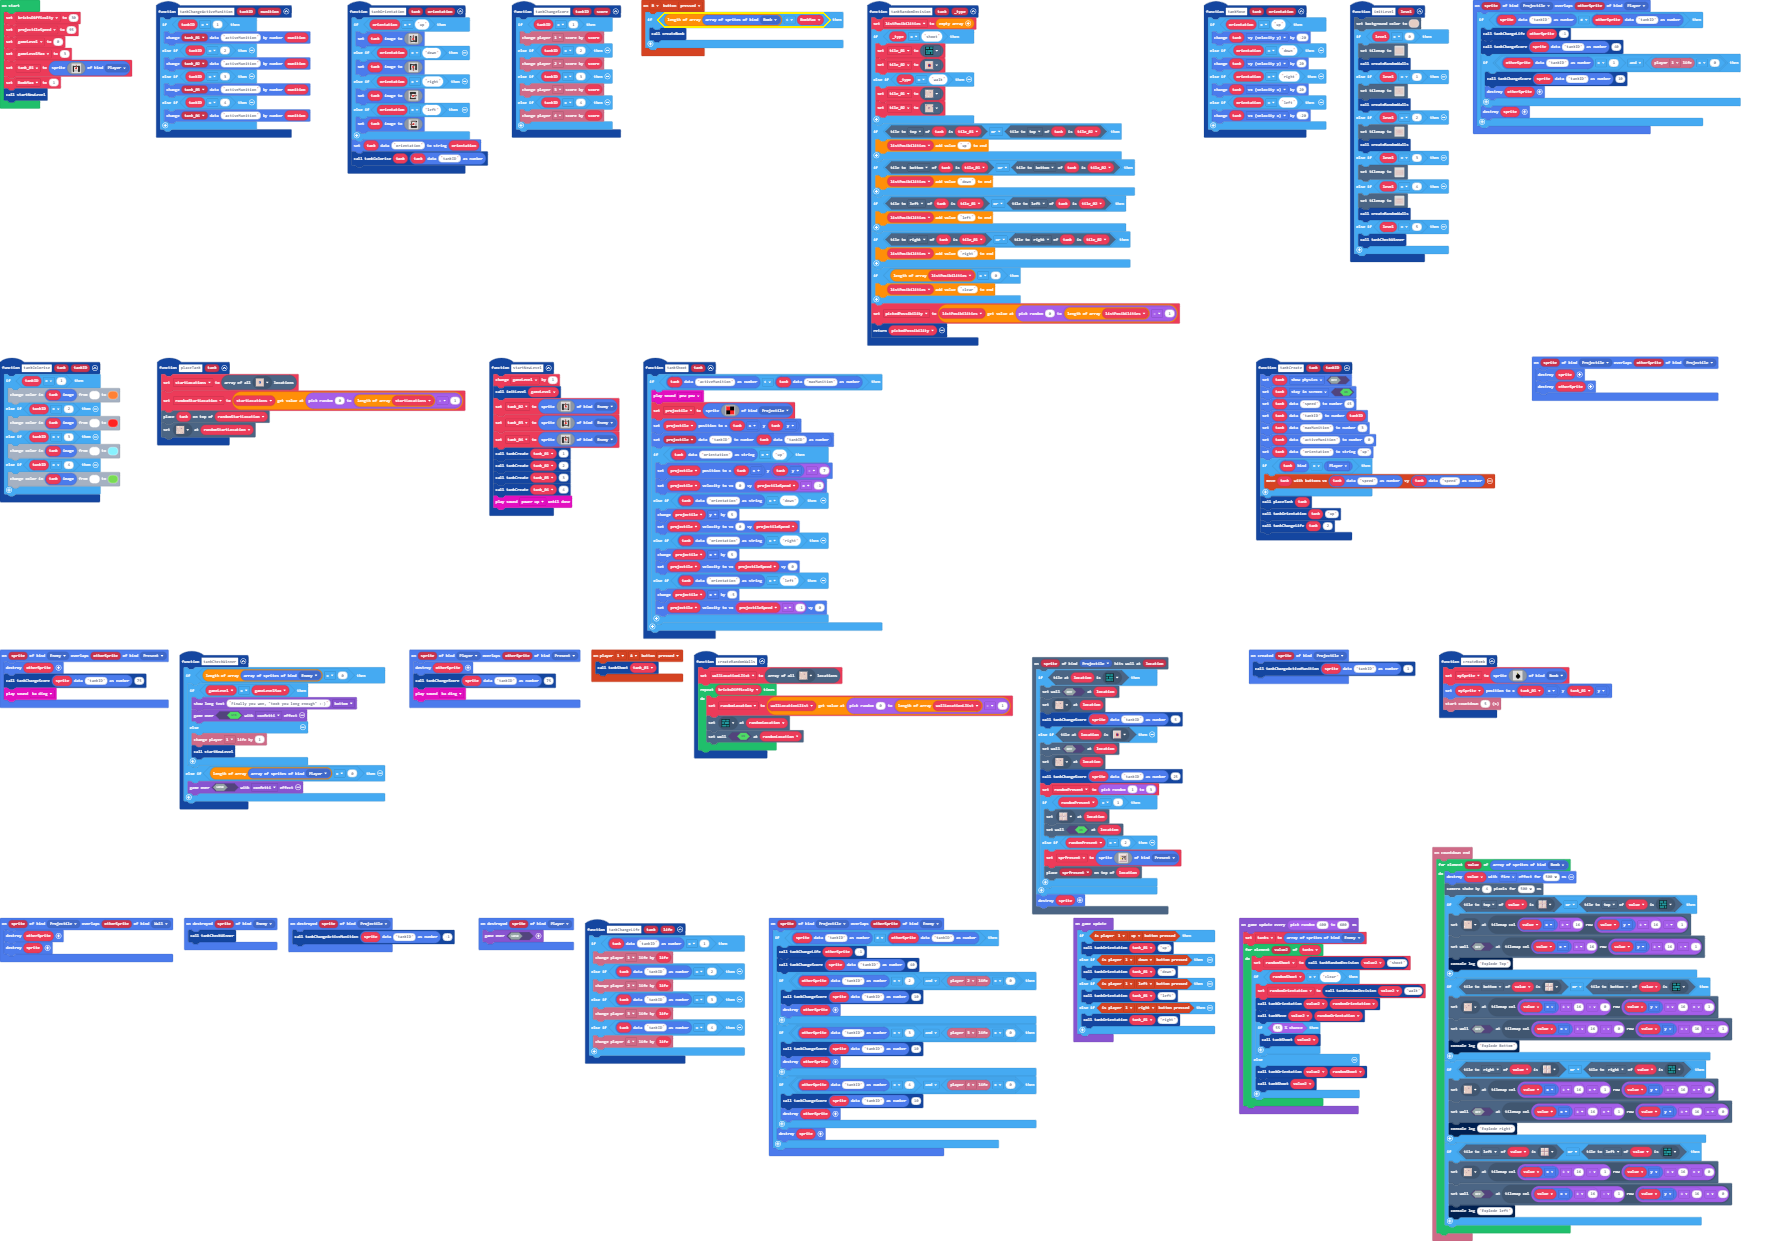
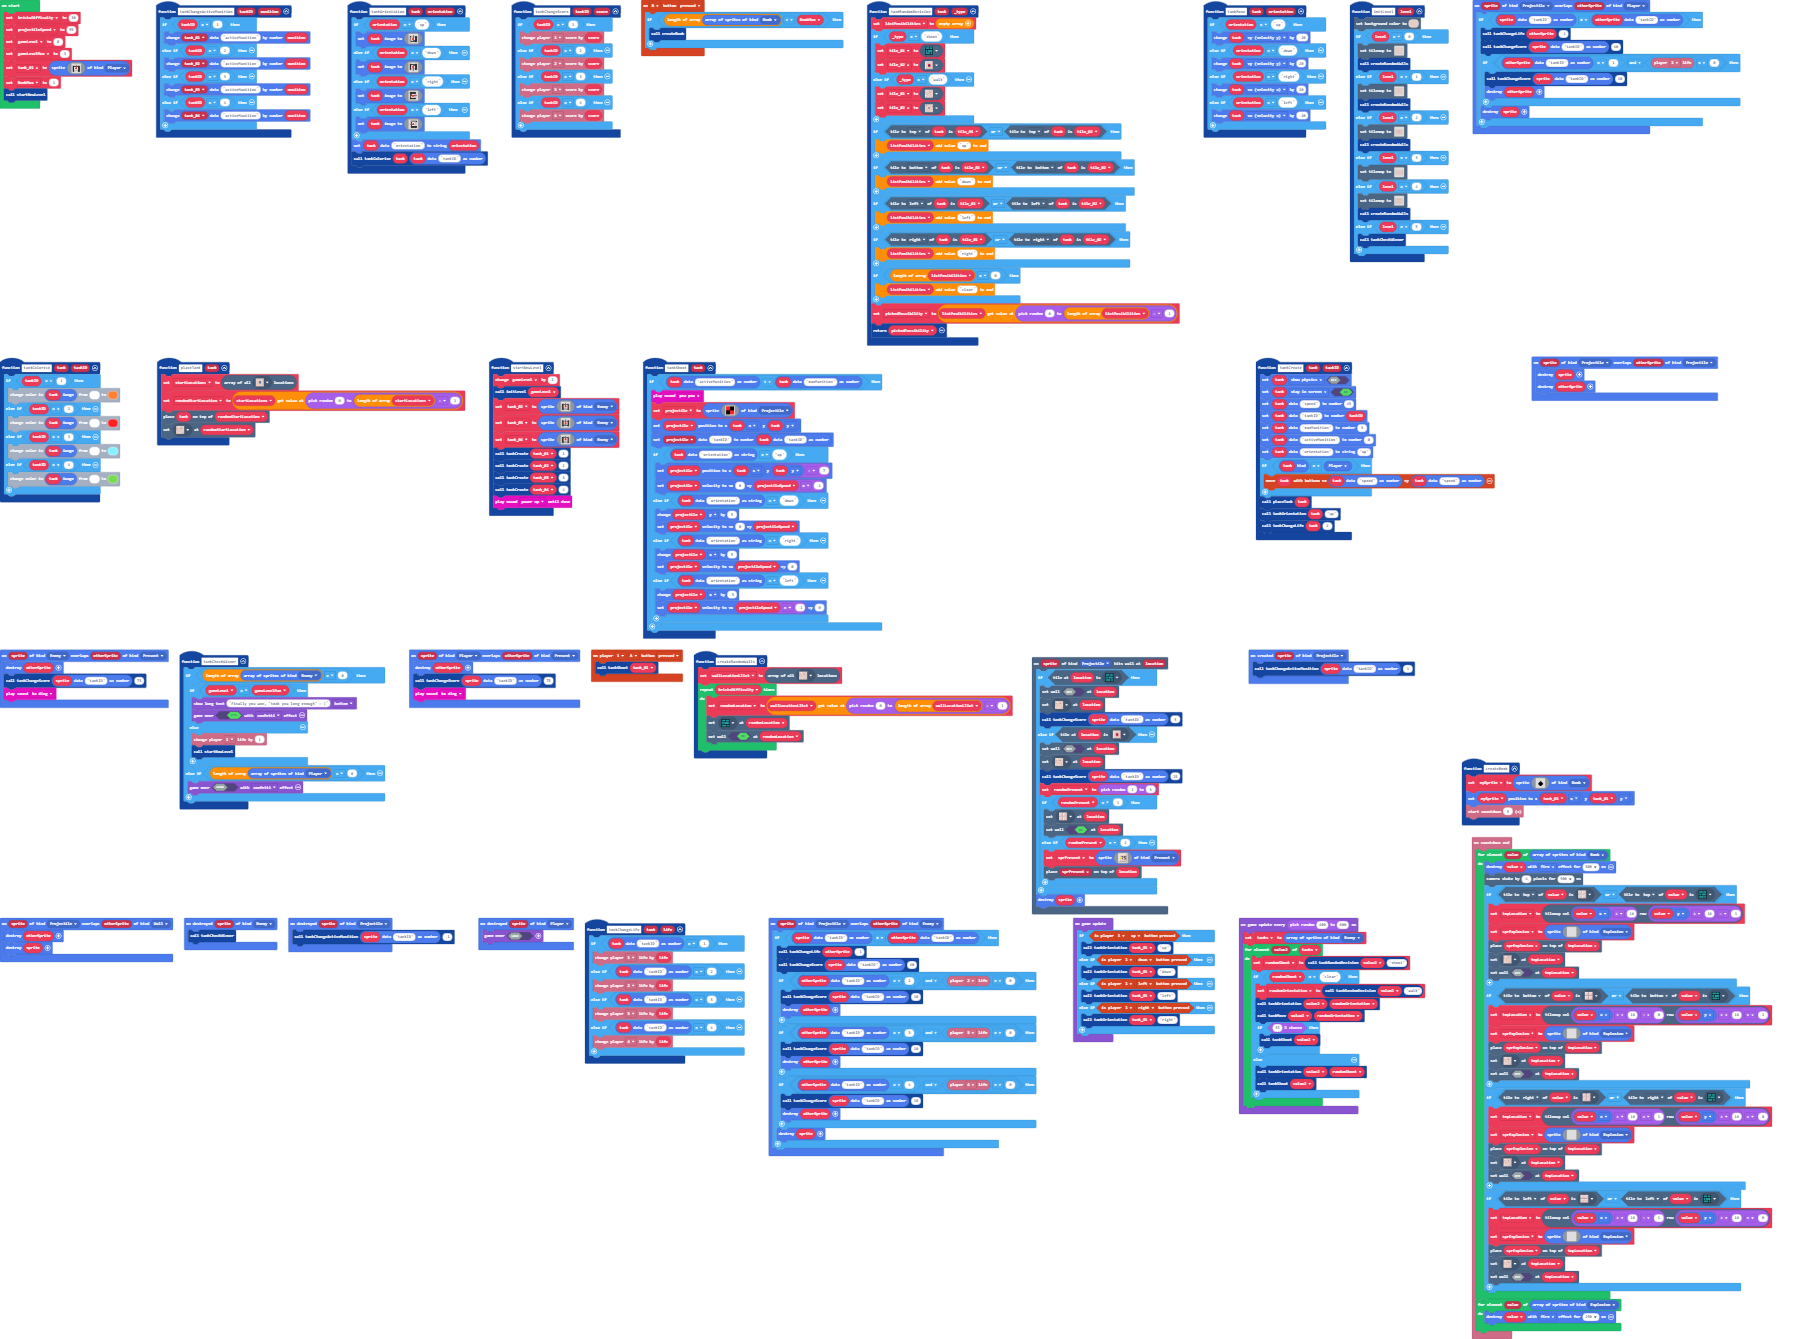
We Made brick destroy animation and continued the development of the bomb

diff --git a/main.ts b/main.ts
@@ -2,6 +2,7 @@ namespace SpriteKind {
     export const Wall = SpriteKind.create()
     export const Present = SpriteKind.create()
     export const Bomb = SpriteKind.create()
+    export const Explosion = SpriteKind.create()
 }
 function tankChangeActiveMunition (tankID: number, munition: number) {
     if (tankID == 1) {
@@ -334,25 +335,104 @@ info.onCountdownEnd(function () {
         value.destroy(effects.fire, 500)
         scene.cameraShake(4, 500)
         if (value.tileKindAt(TileDirection.Top, sprites.dungeon.floorLight0) || value.tileKindAt(TileDirection.Top, myTiles.tile1)) {
-            tiles.setTileAt(tiles.getTileLocation(value.x / 16, value.y / 16 - 1), sprites.castle.tilePath5)
-            tiles.setWallAt(tiles.getTileLocation(value.x / 16, value.y / 16 - 1), false)
-            console.log("Explode Top")
+            tmpLocation = tiles.getTileLocation(value.x / 16, value.y / 16 - 1)
+            sprExplosion = sprites.create(img`
+                . . . . . . . . . . . . . . . . 
+                . . . . . . . . . . . . . . . . 
+                . . . . . . . . . . . . . . . . 
+                . . . . . . . . . . . . . . . . 
+                . . . . . . . . . . . . . . . . 
+                . . . . . . . . . . . . . . . . 
+                . . . . . . . . . . . . . . . . 
+                . . . . . . . . . . . . . . . . 
+                . . . . . . . . . . . . . . . . 
+                . . . . . . . . . . . . . . . . 
+                . . . . . . . . . . . . . . . . 
+                . . . . . . . . . . . . . . . . 
+                . . . . . . . . . . . . . . . . 
+                . . . . . . . . . . . . . . . . 
+                . . . . . . . . . . . . . . . . 
+                . . . . . . . . . . . . . . . . 
+                `, SpriteKind.Explosion)
+            tiles.placeOnTile(sprExplosion, tmpLocation)
+            tiles.setTileAt(tmpLocation, sprites.castle.tilePath5)
+            tiles.setWallAt(tmpLocation, false)
         }
         if (value.tileKindAt(TileDirection.Bottom, sprites.dungeon.floorLight0) || value.tileKindAt(TileDirection.Bottom, myTiles.tile1)) {
-            tiles.setTileAt(tiles.getTileLocation(value.x / 16 - 0, value.y / 16 + 1), sprites.castle.tilePath5)
-            tiles.setWallAt(tiles.getTileLocation(value.x / 16 - 0, value.y / 16 + 1), false)
-            console.log("Explode Bottom")
+            tmpLocation = tiles.getTileLocation(value.x / 16 - 0, value.y / 16 + 1)
+            sprExplosion = sprites.create(img`
+                . . . . . . . . . . . . . . . . 
+                . . . . . . . . . . . . . . . . 
+                . . . . . . . . . . . . . . . . 
+                . . . . . . . . . . . . . . . . 
+                . . . . . . . . . . . . . . . . 
+                . . . . . . . . . . . . . . . . 
+                . . . . . . . . . . . . . . . . 
+                . . . . . . . . . . . . . . . . 
+                . . . . . . . . . . . . . . . . 
+                . . . . . . . . . . . . . . . . 
+                . . . . . . . . . . . . . . . . 
+                . . . . . . . . . . . . . . . . 
+                . . . . . . . . . . . . . . . . 
+                . . . . . . . . . . . . . . . . 
+                . . . . . . . . . . . . . . . . 
+                . . . . . . . . . . . . . . . . 
+                `, SpriteKind.Explosion)
+            tiles.placeOnTile(sprExplosion, tmpLocation)
+            tiles.setTileAt(tmpLocation, sprites.castle.tilePath5)
+            tiles.setWallAt(tmpLocation, false)
         }
         if (value.tileKindAt(TileDirection.Right, sprites.dungeon.floorLight0) || value.tileKindAt(TileDirection.Right, myTiles.tile1)) {
-            tiles.setTileAt(tiles.getTileLocation(value.x / 16 + 1, value.y / 16 + 0), sprites.castle.tilePath5)
-            tiles.setWallAt(tiles.getTileLocation(value.x / 16 + 1, value.y / 16 + 0), false)
-            console.log("Explode right")
+            tmpLocation = tiles.getTileLocation(value.x / 16 + 1, value.y / 16 + 0)
+            sprExplosion = sprites.create(img`
+                . . . . . . . . . . . . . . . . 
+                . . . . . . . . . . . . . . . . 
+                . . . . . . . . . . . . . . . . 
+                . . . . . . . . . . . . . . . . 
+                . . . . . . . . . . . . . . . . 
+                . . . . . . . . . . . . . . . . 
+                . . . . . . . . . . . . . . . . 
+                . . . . . . . . . . . . . . . . 
+                . . . . . . . . . . . . . . . . 
+                . . . . . . . . . . . . . . . . 
+                . . . . . . . . . . . . . . . . 
+                . . . . . . . . . . . . . . . . 
+                . . . . . . . . . . . . . . . . 
+                . . . . . . . . . . . . . . . . 
+                . . . . . . . . . . . . . . . . 
+                . . . . . . . . . . . . . . . . 
+                `, SpriteKind.Explosion)
+            tiles.placeOnTile(sprExplosion, tmpLocation)
+            tiles.setTileAt(tmpLocation, sprites.castle.tilePath5)
+            tiles.setWallAt(tmpLocation, false)
         }
         if (value.tileKindAt(TileDirection.Left, sprites.dungeon.floorLight0) || value.tileKindAt(TileDirection.Left, myTiles.tile1)) {
-            tiles.setTileAt(tiles.getTileLocation(value.x / 16 - 1, value.y / 16 + 0), sprites.castle.tilePath5)
-            tiles.setWallAt(tiles.getTileLocation(value.x / 16 - 1, value.y / 16 + 0), false)
-            console.log("Explode left")
+            tmpLocation = tiles.getTileLocation(value.x / 16 - 1, value.y / 16 + 0)
+            sprExplosion = sprites.create(img`
+                . . . . . . . . . . . . . . . . 
+                . . . . . . . . . . . . . . . . 
+                . . . . . . . . . . . . . . . . 
+                . . . . . . . . . . . . . . . . 
+                . . . . . . . . . . . . . . . . 
+                . . . . . . . . . . . . . . . . 
+                . . . . . . . . . . . . . . . . 
+                . . . . . . . . . . . . . . . . 
+                . . . . . . . . . . . . . . . . 
+                . . . . . . . . . . . . . . . . 
+                . . . . . . . . . . . . . . . . 
+                . . . . . . . . . . . . . . . . 
+                . . . . . . . . . . . . . . . . 
+                . . . . . . . . . . . . . . . . 
+                . . . . . . . . . . . . . . . . 
+                . . . . . . . . . . . . . . . . 
+                `, SpriteKind.Explosion)
+            tiles.placeOnTile(sprExplosion, tmpLocation)
+            tiles.setTileAt(tmpLocation, sprites.castle.tilePath5)
+            tiles.setWallAt(tmpLocation, false)
         }
+    }
+    for (let value of sprites.allOfKind(SpriteKind.Explosion)) {
+        value.destroy(effects.fire, 250)
     }
 })
 function tankCreate (tank: Sprite, tankID: number) {
@@ -521,6 +601,8 @@ let sprPresent: Sprite = null
 let randomPresent = 0
 let randomLocation: tiles.Location = null
 let wallLocationLIist: tiles.Location[] = []
+let sprExplosion: Sprite = null
+let tmpLocation: tiles.Location = null
 let projectile: Sprite = null
 let randomStartLocation: tiles.Location = null
 let startLocations: tiles.Location[] = []
